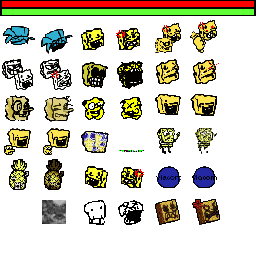
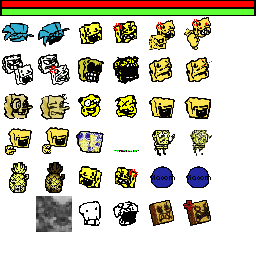
mini update ig
polish is good

diff --git a/src/menu.c b/src/menu.c
@@ -4,22 +4,6 @@
   file, You can obtain one at http://mozilla.org/MPL/2.0/.
 */
 
-#ifndef MEME
-	#ifdef __cplusplus
-		#define MEME 0
-	#else
-	#define MEME ((void *)0)
-	#endif
-#endif
-
-#ifndef OHNO
-	#ifdef __cplusplus
-		#define OHNO 0
-	#else
-	#define OHNO ((void *)0)
-	#endif
-#endif
-
 #include "menu.h"
 
 #include "mem.h"
@@ -39,6 +23,9 @@
 
 #include "stage.h"
 #include "character/gf2.h"
+
+#define meme ((void *)1)
+#define ohno ((void *)2)
 
 //Menu messages
 static const char *funny_messages[][2] = {
@@ -148,7 +135,7 @@ static struct
 	} page_param;
 	
 	//Menu assets
-	Gfx_Tex tex_back, tex_ng, tex_story, tex_title;
+	Gfx_Tex tex_back, tex_ng, tex_story, tex_title, tex_icon;
 	FontData font_bold, font_arial;
 	
 	Character *gf; //Title Girlfriend
@@ -219,6 +206,27 @@ static const char *Menu_LowerIf(const char *text, boolean lower)
 	return menu_text_buffer;
 }
 
+//draw icons
+static void Menu_DrawHealth(u32 x, u32 y, u8 i)
+{	
+	//Get src and dst
+	RECT src = {
+	     (i % 7) * 36,
+	     (i / 7) * 36,
+         36,
+	     36
+	};
+	RECT dst = {
+		x,
+		y,
+		38,
+		38
+	};
+	
+	//Draw health icon
+	Gfx_DrawTex(&menu.tex_icon, &src, &dst);
+}
+
 static void Menu_DrawBack(boolean flash, s32 scroll, u8 r0, u8 g0, u8 b0, u8 r1, u8 g1, u8 b1)
 {
 	RECT back_src = {0, 0, 255, 255};
@@ -276,8 +284,20 @@ static void Menu_DrawWeek(const char *week, s32 x, s32 y)
 	//Draw label
 	if (week == NULL)
 	{
-		//Tutorial
+		//Spong
 		RECT label_src = {0, 0, 112, 32};
+		Gfx_BlitTex(&menu.tex_story, &label_src, x, y);
+	}
+	else if (week == meme)
+	{
+		//Meme
+		RECT label_src = {0, 64, 83, 25};
+		Gfx_BlitTex(&menu.tex_story, &label_src, x, y);
+	}
+	else if (week == ohno)
+	{
+		//OHNO
+		RECT label_src = {100, 64, 96, 32};
 		Gfx_BlitTex(&menu.tex_story, &label_src, x, y);
 	}
 	else
@@ -309,6 +329,7 @@ void Menu_Load(MenuPage page)
 	Gfx_LoadTex(&menu.tex_ng,    Archive_Find(menu_arc, "ng.tim"),    0);
 	Gfx_LoadTex(&menu.tex_story, Archive_Find(menu_arc, "story.tim"), 0);
 	Gfx_LoadTex(&menu.tex_title, Archive_Find(menu_arc, "title.tim"), 0);
+	Gfx_LoadTex(&menu.tex_icon, Archive_Find(menu_arc, "icon.tim"), 0);
 	Mem_Free(menu_arc);
 	
 	FontData_Load(&menu.font_bold, Font_Bold);
@@ -690,10 +711,10 @@ void Menu_Tick(void)
 				const char *tracks[5];
 			} menu_options[] = {
 				{NULL, StageId_1_1, "ITS SPONG NOT SPONGEBOB", {"SPONG", "ABSORB", "ABRASIVE", "BIBULUS", "SERPENT"}},
-				{"1", StageId_2_1, "BMV AND MARCY COLLAB", {"DONKEY NOISE", "HELL NAH", "IP", NULL, NULL}},
+				{meme, StageId_2_1, "BMV AND MARCY COLLAB", {"DONKEY NOISE", "HELL NAH", "IP", NULL, NULL}},
 				{"3", StageId_4_1, "DESTROYER OF WORLDS", {"SPONG OLD", "ABSORB OLD", "ABRASIVE OLD", "PINEAPPLED OLD", NULL}},
 				{"7", StageId_3_1, "FIRST STEPS", {"SPONG OLDER", "ABSORB OLDER", "PINEAPPLED OLDER", NULL, NULL}},
-				{"2", StageId_5_1, "A VIACOM PRODUCTION", {"COPYRIGHT EVASION", NULL, NULL, NULL, NULL}},
+				{ohno, StageId_5_1, "A VIACOM PRODUCTION", {"COPYRIGHT EVASION", NULL, NULL, NULL, NULL}},
 			};
 			
 			//Initialize page
@@ -815,25 +836,26 @@ void Menu_Tick(void)
 				StageId stage;
 				u32 col;
 				const char *text;
+				u8 icon
 			} menu_options[] = {
-				{StageId_1_1, 0xFFD2D256, "SPONG"},
-				{StageId_1_2, 0xFFD2D256, "ABSORB"},
-				{StageId_1_3, 0xFFD2D256, "ABRASIVE"},
-				{StageId_1_4, 0xFFD2D256, "BIBULUS"},
-				{StageId_1_5, 0xFFD2D256, "SERPENT"},
-				{StageId_2_1, 0xFFD2D200, "DONKEY NOISE"},
-				{StageId_2_2, 0xFFD2D200, "HELL NAH"},
-				{StageId_2_3, 0xFFD2D200, "IP"},
-				{StageId_2_4, 0xFFD2D200, "BICUBIC"},
-				{StageId_4_1, 0xFFD2D23E, "SPONG OLD"},
-				{StageId_4_2, 0xFFD2D23E, "ABSORB OLD"},
-				{StageId_4_3, 0xFFD2D23E, "ABRASIVE OLD"},
-				{StageId_4_4, 0xFFD2D23E, "PINEAPPLED OLD"},
-				{StageId_3_1, 0xFF363636, "SPONG OLDER"},
-				{StageId_3_2, 0xFF363636, "ABSORB OLDER"},
-				{StageId_3_3, 0xFF363636, "PINEAPPLED OLDER"},
-				{StageId_5_1, 0xFF1E2185, "COPYRIGHT EVASION"},
-				{StageId_5_2, 0xFF000000, "BORN"},
+				{StageId_1_1, 0xFFD2D256, "SPONG", 1},
+				{StageId_1_2, 0xFFD2D256, "ABSORB", 1},
+				{StageId_1_3, 0xFFD2D256, "ABRASIVE", 2},
+				{StageId_1_4, 0xFFD2D256, "BIBULUS", 3},
+				{StageId_1_5, 0xFFD2D256, "SERPENT", 4},
+				{StageId_2_1, 0xFFD2D200, "DONKEY NOISE", 5},
+				{StageId_2_2, 0xFFD2D200, "HELL NAH", 6},
+				{StageId_2_3, 0xFFD2D200, "IP", 7},
+				{StageId_2_4, 0xFFD2D200, "BICUBIC", 17},
+				{StageId_4_1, 0xFFD2D23E, "SPONG OLD", 8},
+				{StageId_4_2, 0xFFD2D23E, "ABSORB OLD", 8},
+				{StageId_4_3, 0xFFD2D23E, "ABRASIVE OLD", 9},
+				{StageId_4_4, 0xFFD2D23E, "PINEAPPLED OLD", 10},
+				{StageId_3_1, 0xFF363636, "SPONG OLDER", 11},
+				{StageId_3_2, 0xFF363636, "ABSORB OLDER", 11},
+				{StageId_3_3, 0xFF363636, "PINEAPPLED OLDER", 12},
+				{StageId_5_1, 0xFF1E2185, "COPYRIGHT EVASION", 14},
+				{StageId_5_2, 0xFF000000, "BORN", 15},
 			};
 			
 			//Initialize page
@@ -907,6 +929,8 @@ void Menu_Tick(void)
 				if (y >= SCREEN_HEIGHT2 + 8)
 					break;
 				
+				Menu_DrawHealth(strlen(menu_options[i].text) * 14 + 48 + (y >> 2), SCREEN_HEIGHT2 + y - 20, menu_options[i].icon);
+				
 				//Draw text
 				menu.font_bold.draw(&menu.font_bold,
 					Menu_LowerIf(menu_options[i].text, menu.select != i),
@@ -967,6 +991,8 @@ void Menu_Tick(void)
 				{StageId_Clwn_1, "   OG KE VERSION", false},
 				{StageId_Clwn_1, "FINGONZ", false},
 				{StageId_Clwn_1, "   CHARTED MISSING SONGS", false},
+				{StageId_Clwn_1, "PENNY THE PROTOGEN", false},
+				{StageId_Clwn_1, "   CHARTED BICUBIC", false},
 				{StageId_Clwn_1, "IGORSOU", false},
 				{StageId_Clwn_1, "   ADDITIONAL HELP", false},
 				{StageId_Clwn_1, "UNSTOPABLE", false},

diff --git a/src/stagedef_disc1.h b/src/stagedef_disc1.h
@@ -44,7 +44,7 @@
 		1, 3,
 		XA_Dadbattle, 0,
 		
-		StageId_1_3, 0
+		StageId_1_4, 0
 	},
 	{ //StageId_1_4 (Tutorial)
 		//Characters
@@ -60,7 +60,7 @@
 		1, 4,
 		XA_Tutorial, 2,
 		
-		StageId_1_4, 0
+		StageId_1_5, 0
 	},
 	{ //StageId_1_5 (Serpent)
 		//Characters
@@ -239,7 +239,7 @@
 		4, 3,
 		XA_MILF, 0,
 		
-		StageId_4_3, 0
+		StageId_4_4, 0
 	},
 	{ //StageId_4_4 (Test)
 		//Characters
@@ -272,7 +272,7 @@
 		5, 1,
 		XA_Cocoa, 0,
 		
-		StageId_5_2, 0
+		StageId_5_1, 0
 	},
 	{ //StageId_5_2 (Eggnog)
 		//Characters
@@ -288,5 +288,5 @@
 		5, 2,
 		XA_Eggnog, 2,
 		
-		StageId_5_3, 0
+		StageId_5_2, 0
 	},
